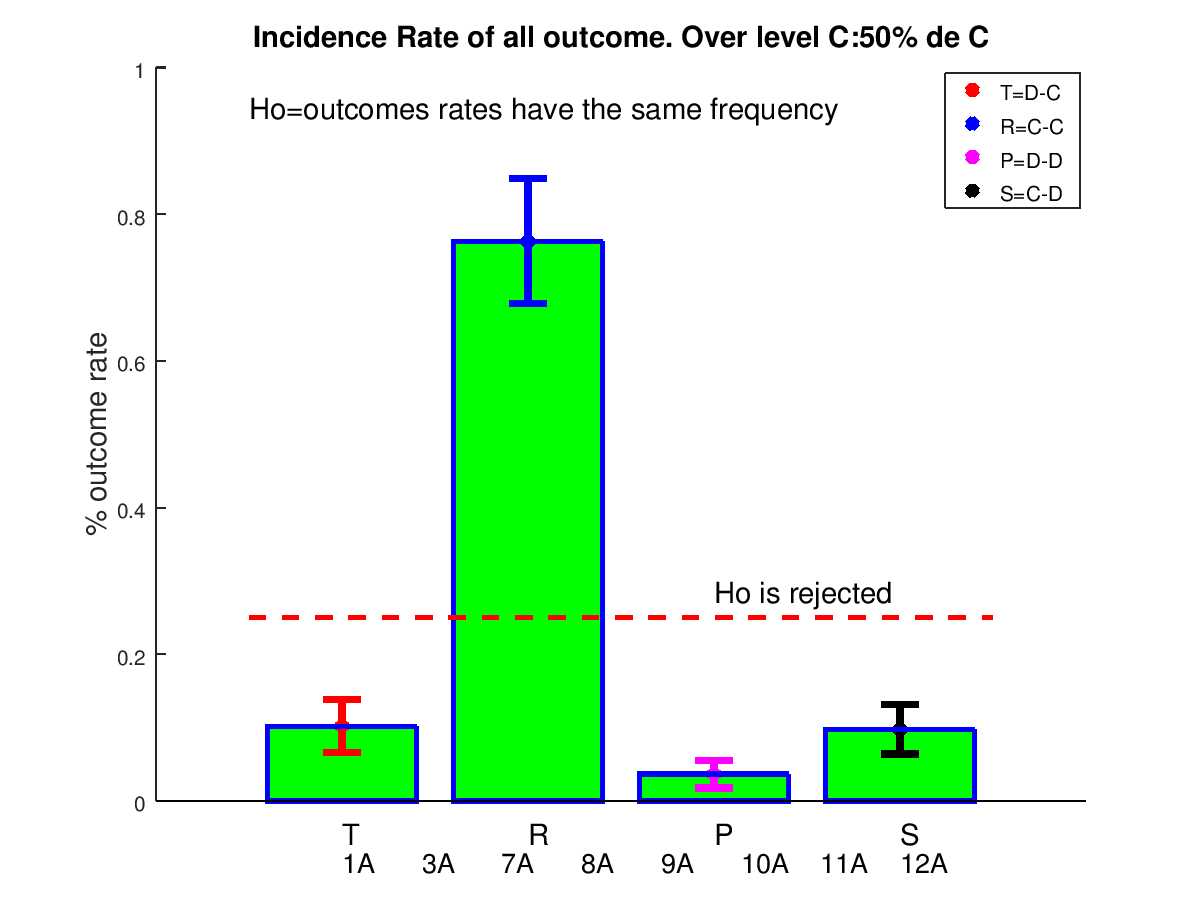
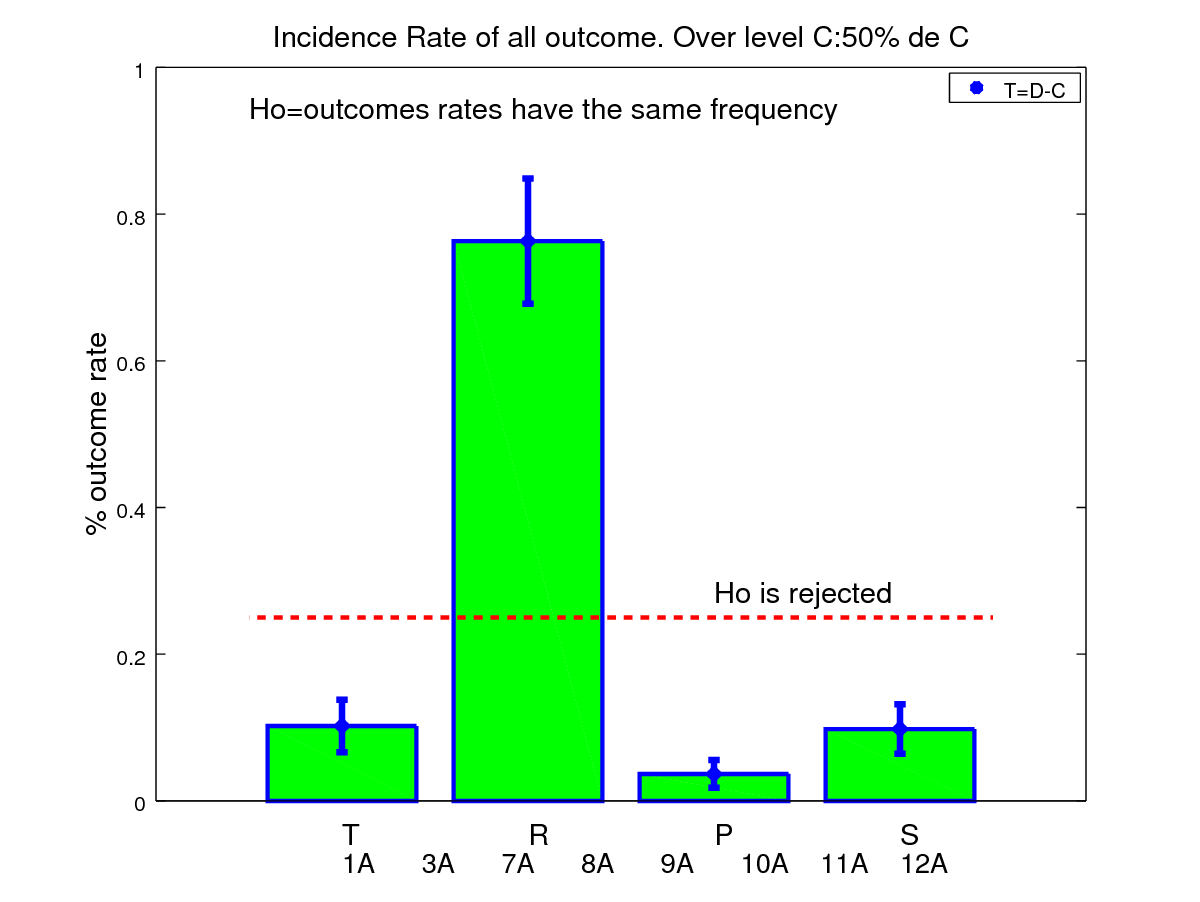
paper antisocial

diff --git a/ExtraerDatos/graficos_iPD_1_2_9s_13s_matrizDeMarkov.m b/ExtraerDatos/graficos_iPD_1_2_9s_13s_matrizDeMarkov.m
@@ -415,7 +415,7 @@ for i=1:_nSujetos
   T_std(i)=std(T2(i,primero:ultimo));R_std(i)=std(R2(i,primero:ultimo));P_std(i)=std(P2(i,primero:ultimo));S_std(i)=std(S2(i,primero:ultimo));
   figure;
   %plot(1,T_mean(i), 2,R_mean(i) ,3, P_mean(i),4,S_mean(i));
-  h=errorbar(1,T_mean(i), T_std(i),'*r', 2,R_mean(i),R_std(i),'*b', 3,P_mean(i), P_std(i),'*m', 4,S_mean(i), S_std(i),'*c');
+  h=errorbar([1 2 3 4],[T_mean(i) R_mean(i) P_mean(i) S_mean(i)] , [T_std(i) R_std(i) P_std(i) S_std(i)]);
   set (h, "linewidth", 3);
   xlabel("Estados");
   ylabel("% de ocurrencia");
@@ -484,7 +484,8 @@ _semR=sem(R_mean(_sujetosCooperadores));
 _semP=sem(P_mean(_sujetosCooperadores));
 _semS=sem(S_mean(_sujetosCooperadores));
 hhh=figure;
-h=errorbar(1,_mediaT, _semT,'*r', 2,_mediaR,_semR,'*b', 3,_mediaP, _semP,'*m', 4,_mediaS, _semS,'*k');
+%h=errorbar(1,_mediaT, _semT,'*r', 2,_mediaR,_semR,'*b', 3,_mediaP, _semP,'*m', 4,_mediaS, _semS,'*k');
+h=errorbar([1 2 3 4],[_mediaT _mediaR _mediaP _mediaS], [_semT _semR _semP _semS],'*b');
 %h=errorbar(1,_mediaT, _semT, 2,_mediaR,_semR, 3,_mediaP, _semP, 4,_mediaS, _semS,'*k');
 set (h, "linewidth", 3);
 %hh=xlabel("Estados");set(hh, "fontsize", 14);
@@ -517,7 +518,7 @@ _semR=sem(R_mean(_sujetosNocooperadores));
 _semP=sem(P_mean(_sujetosNocooperadores));
 _semS=sem(S_mean(_sujetosNocooperadores));
 hh=figure;
-h=errorbar(1,_mediaT, _semT,'*r', 2,_mediaR,_semR,'*b', 3,_mediaP, _semP,'*m', 4,_mediaS, _semS,'*c');
+h=errorbar([1 2 3 4],[_mediaT _mediaR _mediaP _mediaS], [_semT _semR _semP _semS],'*b');
 set (h, "linewidth", 3);
 %xlabel("Estados");
 ylabel("% outcome rate","fontsize", 14);
